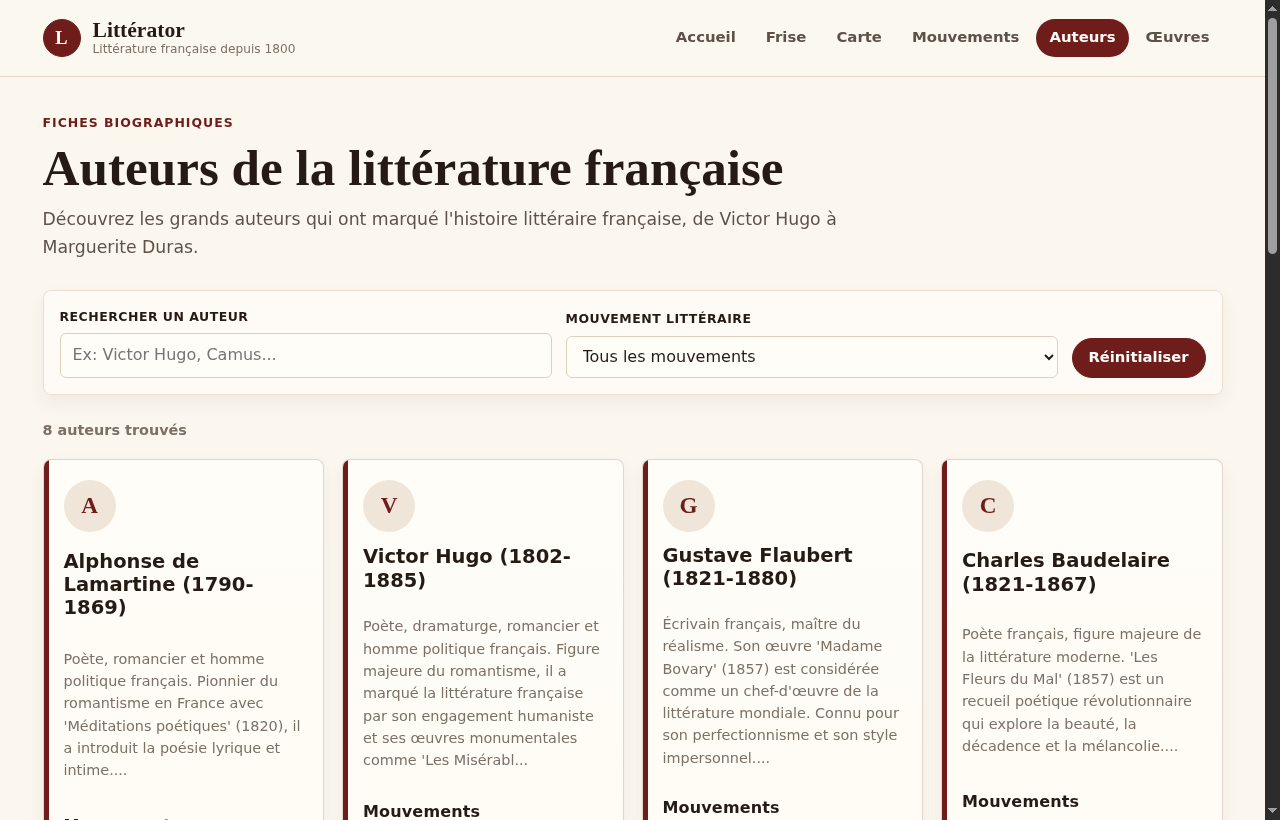
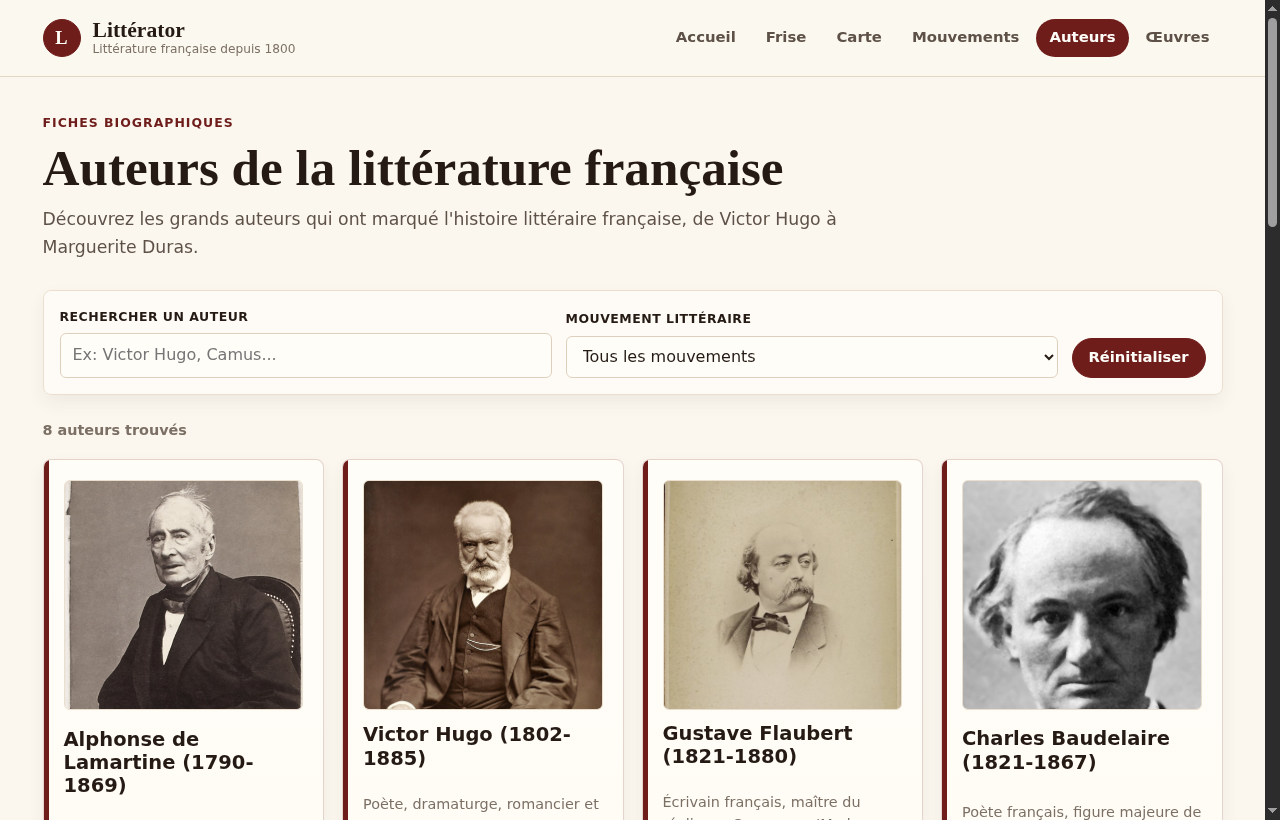
Ajoute images libres auteurs et oeuvres

diff --git a/litterator-pwa/src/pages/WorksPage.jsx b/litterator-pwa/src/pages/WorksPage.jsx
@@ -163,6 +163,15 @@ function WorksPage() {
               id={work.id} 
               className="card entity-card work-card"
             >
+              {work.cover && (
+                <img
+                  src={work.cover}
+                  alt={work.title}
+                  className="work-cover"
+                  loading="lazy"
+                />
+              )}
+
               <h3 style={{ marginBottom: '10px' }}>
                 {work.title}
               </h3>
@@ -192,8 +201,8 @@ function WorksPage() {
                   {work.themes.map((theme, index) => (
                     <span 
                       key={index} 
-                      className="badge" 
-                      style={{ backgroundColor: '#e0e0e0', color: 'var(--primary-color)', fontSize: '0.8rem' }}
+                      className="badge badge-theme" 
+                      style={{ fontSize: '0.8rem' }}
                     >
                       {theme}
                     </span>
@@ -240,8 +249,8 @@ function WorksPage() {
                         href={adaptation.link} 
                         target="_blank" 
                         rel="noopener noreferrer"
-                        className="badge" 
-                        style={{ backgroundColor: '#e0e0e0', color: 'var(--primary-color)', fontSize: '0.8rem' }}
+                        className="badge badge-theme" 
+                        style={{ fontSize: '0.8rem' }}
                       >
                         {adaptation.type === 'film' ? '🎬' : adaptation.type === 'tv_series' ? '📺' : adaptation.type === 'musical' ? '🎭' : '🎵'} 
                         {adaptation.title} ({adaptation.year})

diff --git a/litterator-pwa/src/pages/AuthorsPage.jsx b/litterator-pwa/src/pages/AuthorsPage.jsx
@@ -123,9 +123,18 @@ function AuthorsPage() {
               id={author.id} 
               className="card entity-card author-card"
             >
-              <div className="entity-initial" aria-hidden="true">
-                {author.name.charAt(0)}
-              </div>
+              {author.portrait ? (
+                <img
+                  src={author.portrait}
+                  alt={author.name}
+                  className="author-portrait"
+                  loading="lazy"
+                />
+              ) : (
+                <div className="entity-initial" aria-hidden="true">
+                  {author.name.charAt(0)}
+                </div>
+              )}
 
               <h3 style={{ marginBottom: '10px' }}>
                 {author.name} ({author.birth.year}-{author.death.year})

diff --git a/litterator-pwa/src/styles/global.css b/litterator-pwa/src/styles/global.css
@@ -573,6 +573,27 @@ blockquote {
   font-weight: 700;
 }
 
+.author-portrait,
+.work-cover {
+  width: 100%;
+  border: 1px solid var(--line-soft);
+  border-radius: 6px;
+  background: var(--paper-deep);
+  box-shadow: inset 0 0 0 1px rgba(255, 253, 248, 0.6);
+}
+
+.author-portrait {
+  height: 230px;
+  object-fit: cover;
+  object-position: center 20%;
+}
+
+.work-cover {
+  height: 270px;
+  object-fit: cover;
+  object-position: center;
+}
+
 .card-section {
   display: grid;
   gap: 8px;

diff --git a/litterator-pwa/public/images/ATTRIBUTIONS.md b/litterator-pwa/public/images/ATTRIBUTIONS.md
@@ -1,0 +1,21 @@
+# Attributions des images
+
+Les portraits et visuels historiques ci-dessous proviennent de Wikimedia Commons. Les couvertures typographiques modernes sont créées localement pour Littérator et ne reproduisent pas de jaquette commerciale.
+
+| Fichier local | Source | Auteur / crédit | Licence |
+| --- | --- | --- | --- |
+| `/images/authors/victor_hugo.jpg` | [File:Victor Hugo by Étienne Carjat 1876 - full.jpg](https://commons.wikimedia.org/wiki/File%3AVictor%20Hugo%20by%20%C3%89tienne%20Carjat%201876%20-%20full.jpg) | Étienne Carjat - Bibliothèque nationale de France | Public domain |
+| `/images/authors/lamartine.jpg` | [File:Lamartine photography.jpg](https://commons.wikimedia.org/wiki/File%3ALamartine%20photography.jpg) | A.Martin, photographe à Paris. Uploaded, stitched, cleaned and restored by Jebulon - Bibliothèque nationale de France | Public domain |
+| `/images/authors/flaubert.jpg` | [File:Gustave Flaubert portrait photo.jpg](https://commons.wikimedia.org/wiki/File%3AGustave%20Flaubert%20portrait%20photo.jpg) | Gaspard-Félix Tournachon (Nadar) - Here | Public domain |
+| `/images/authors/zola.jpg` | [File:Manet, Edouard - Portrait of Emile Zola.jpg](https://commons.wikimedia.org/wiki/File%3AManet%2C%20Edouard%20-%20Portrait%20of%20Emile%20Zola.jpg) | Auteur non renseigné sur Commons - Unknown sourceUnknown source | Public domain |
+| `/images/authors/baudelaire.jpg` | [File:Portrait Charles Baudelaire cropped from foto by Nadar.jpg](https://commons.wikimedia.org/wiki/File%3APortrait%20Charles%20Baudelaire%20cropped%20from%20foto%20by%20Nadar.jpg) | Nadar - This file was derived from: Charles Baudelaire.jpg: | Public domain |
+| `/images/authors/camus.jpg` | [File:Albert Camus 1945 (cropped).jpg](https://commons.wikimedia.org/wiki/File%3AAlbert%20Camus%201945%20(cropped).jpg) | Studio Harcourt - RMN | Public domain |
+| `/images/authors/beauvoir.jpg` | [File:Simone de Beauvoir.PNG](https://commons.wikimedia.org/wiki/File%3ASimone%20de%20Beauvoir.PNG) | The Ogre - self-made from (cropped) | Public domain |
+| `/images/authors/duras.jpg` | [File:Marguerite Duras 1993.jpg](https://commons.wikimedia.org/wiki/File%3AMarguerite%20Duras%201993.jpg) | La_Pluie_d'été_au_Stella.jpg: Jutta johannaderivative work: JJ Georges (talk) - La_Pluie_d'été_au_Stella.jpg | CC BY 3.0 |
+| `/images/works/les_miserables.jpg` | [File:Cosette-sweeping-les-miserables-emile-bayard-1862.jpg](https://commons.wikimedia.org/wiki/File%3ACosette-sweeping-les-miserables-emile-bayard-1862.jpg) | Émile Bayard - https://www.parismuseescollections.paris.fr/fr/maison-de-victor-hugo/oeuvres/cosette-balayant | Public domain |
+| `/images/works/notre_dame_de_paris.jpg` | [File:Notre-Dame de Paris 1st edition BnF RES P-Z-1150 (2).jpg](https://commons.wikimedia.org/wiki/File%3ANotre-Dame%20de%20Paris%201st%20edition%20BnF%20RES%20P-Z-1150%20(2).jpg) | Marie-Lan Nguyen - Own work | Public domain |
+| `/images/works/madame_bovary.jpg` | [File:Madame Bovary 1857 (hi-res).jpg](https://commons.wikimedia.org/wiki/File%3AMadame%20Bovary%201857%20(hi-res).jpg) | Gustave Flaubert - Book dealer (immediate image source) | Public domain |
+| `/images/works/l_assommoir.jpg` | [File:L'Assommoir (Lo Sannatojo) di E. Zola. opera complets, Flli treves editori affiche, Cillino.jpg](https://commons.wikimedia.org/wiki/File%3AL'Assommoir%20(Lo%20Sannatojo)%20di%20E.%20Zola.%20opera%20complets%2C%20Flli%20treves%20editori%20affiche%2C%20Cillino.jpg) | Cillino (affichiste). Illustrateur - This file comes from Gallica Digital Library and is available under the digital ID btv1b90166275 | Public domain |
+| `/images/works/germinal.jpg` | [File:Zola - Germinal (Charpentier).djvu](https://commons.wikimedia.org/wiki/File%3AZola%20-%20Germinal%20(Charpentier).djvu) | Émile Zola - Bibliothèque nationale de France | Public domain |
+| `/images/works/les_fleurs_du_mal.jpg` | [File:Les fleurs small.jpg](https://commons.wikimedia.org/wiki/File%3ALes%20fleurs%20small.jpg) | hrc - http://www.hrc.utexas.edu | Public domain |
+| `/images/works/l_education_sentimentale.jpg` | [File:Education sentimentale flaubert.jpg](https://commons.wikimedia.org/wiki/File:Education%20sentimentale%20flaubert.jpg) | Flaubert - www.liberlibri.com/laurentcoulet/flaubert.jpg | Public domain |
